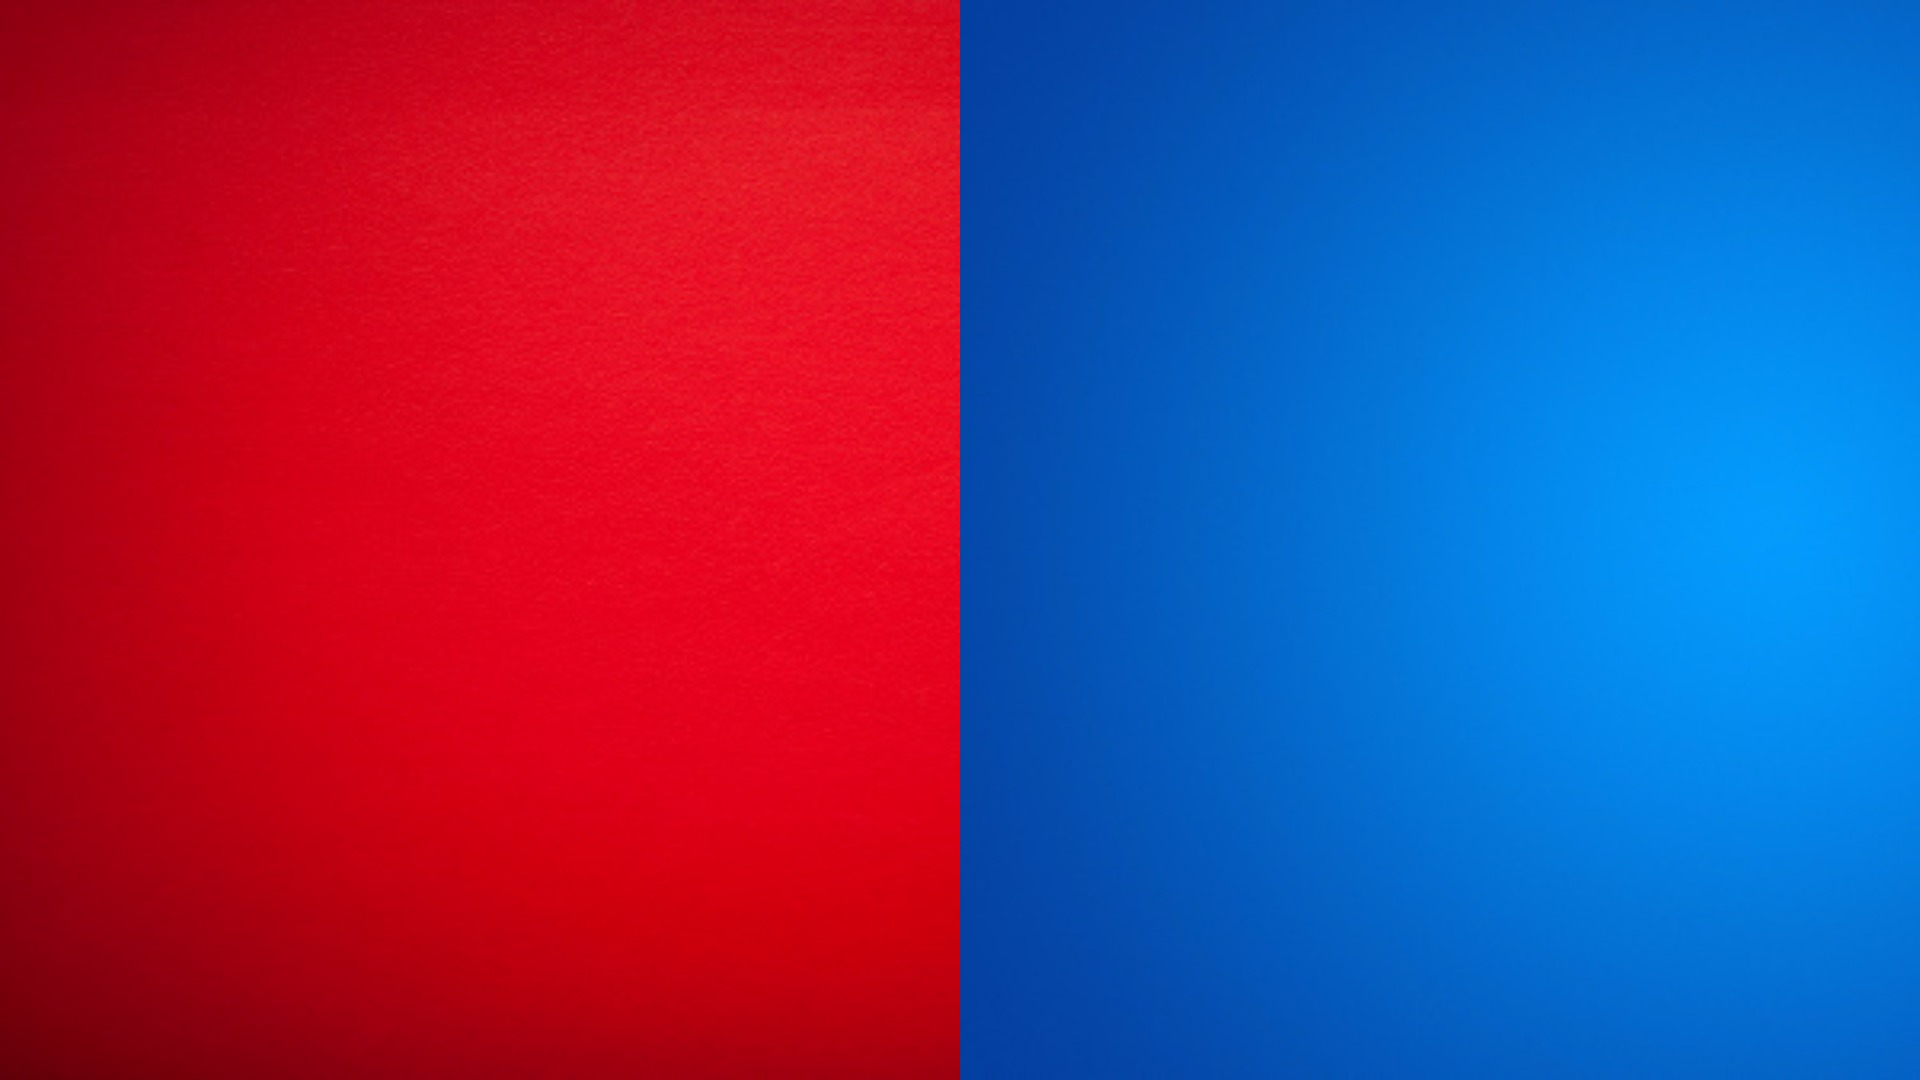
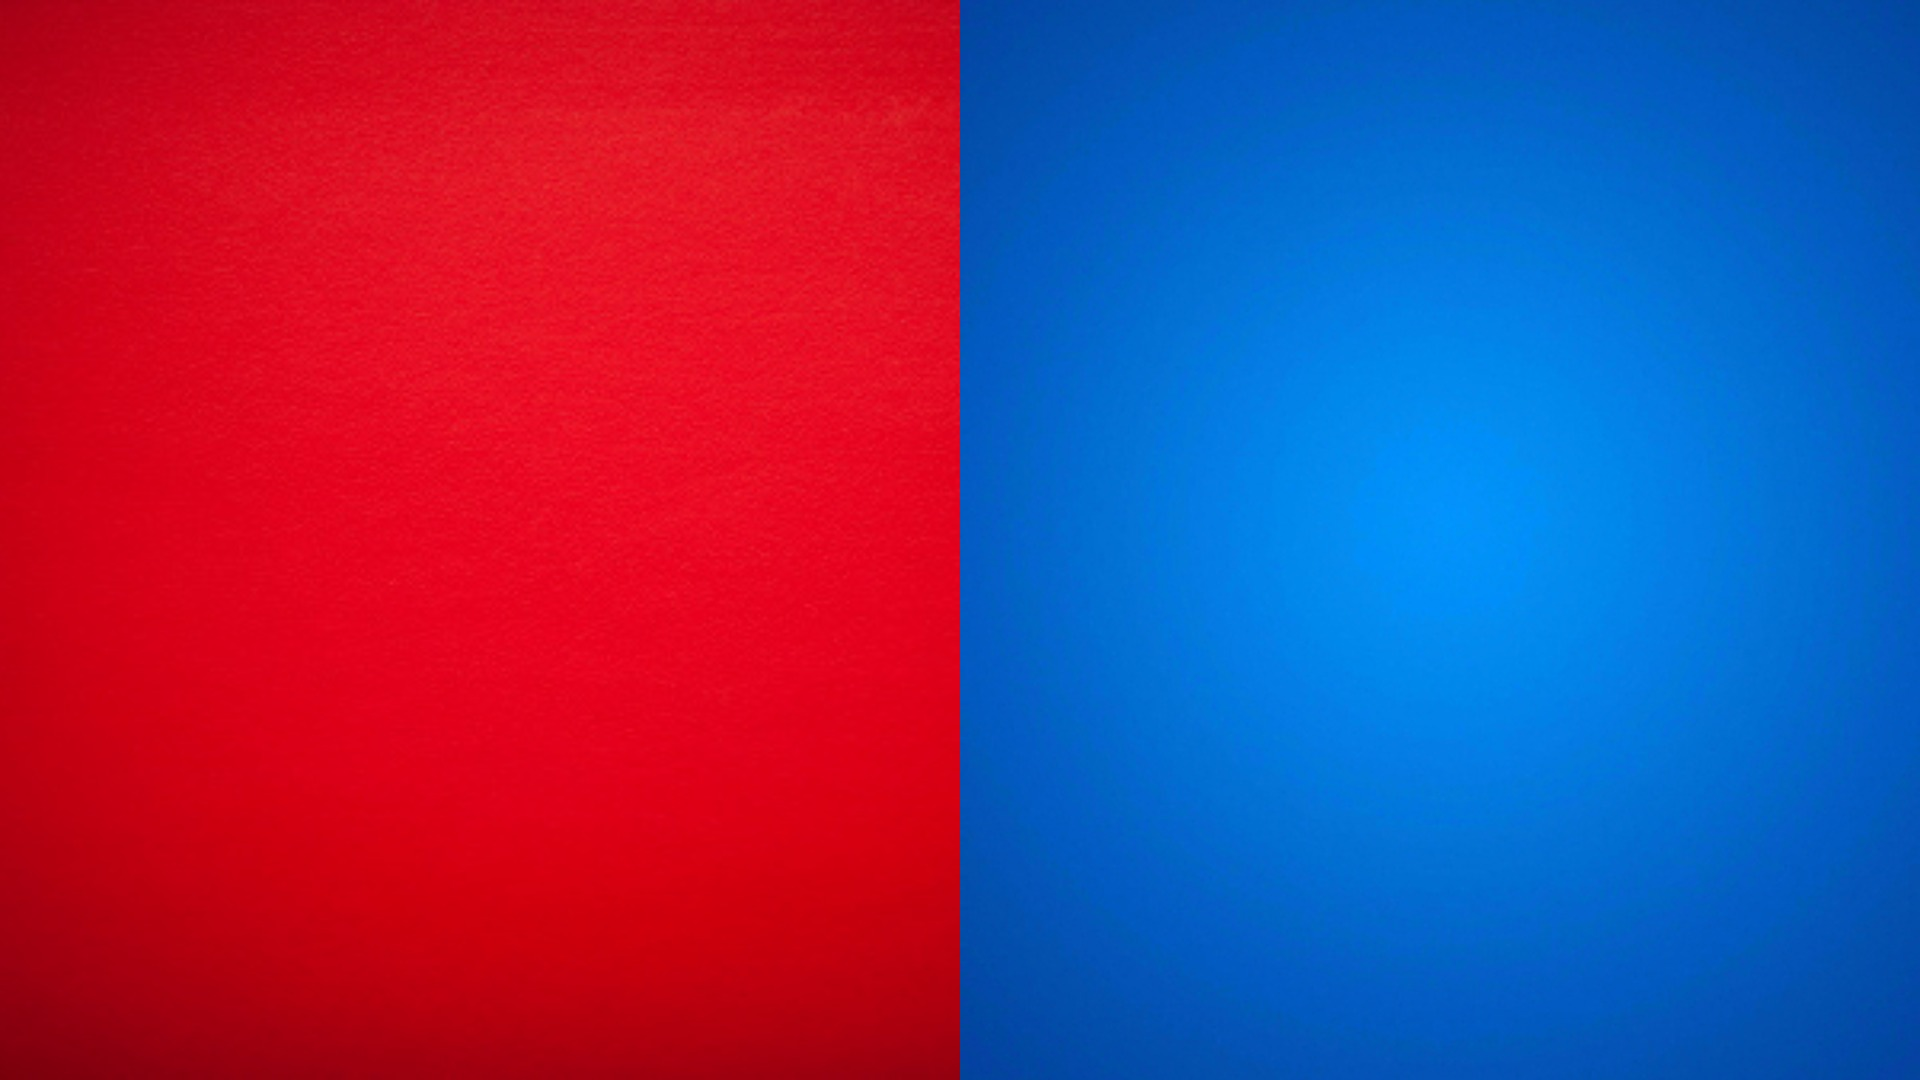
Fresh Start.

Changed region(s): [[0.0, 0.0, 0.1562, 1.0], [0.8438, 0.0, 1.0, 1.0], [0.5, 0.2444, 0.7812, 0.7333]]

diff --git a/Karate Scoring App/Form1.Designer.cs b/Karate Scoring App/Form1.Designer.cs
@@ -47,12 +47,8 @@
             this.sweepBlue_Button = new System.Windows.Forms.Button();
             this.punchBlue_Button = new System.Windows.Forms.Button();
             this.lka_PictureBox = new System.Windows.Forms.PictureBox();
-            this.blueBack_PictureBox = new System.Windows.Forms.PictureBox();
-            this.redBack_PictureBox = new System.Windows.Forms.PictureBox();
             this.blueScore_Label = new System.Windows.Forms.Label();
             ((System.ComponentModel.ISupportInitialize)(this.lka_PictureBox)).BeginInit();
-            ((System.ComponentModel.ISupportInitialize)(this.blueBack_PictureBox)).BeginInit();
-            ((System.ComponentModel.ISupportInitialize)(this.redBack_PictureBox)).BeginInit();
             this.SuspendLayout();
             // 
             // startTimer_Button
@@ -233,22 +229,6 @@
             this.lka_PictureBox.TabIndex = 16;
             this.lka_PictureBox.TabStop = false;
             // 
-            // blueBack_PictureBox
-            // 
-            this.blueBack_PictureBox.Location = new System.Drawing.Point(602, -1);
-            this.blueBack_PictureBox.Name = "blueBack_PictureBox";
-            this.blueBack_PictureBox.Size = new System.Drawing.Size(638, 721);
-            this.blueBack_PictureBox.TabIndex = 17;
-            this.blueBack_PictureBox.TabStop = false;
-            // 
-            // redBack_PictureBox
-            // 
-            this.redBack_PictureBox.Location = new System.Drawing.Point(0, -1);
-            this.redBack_PictureBox.Name = "redBack_PictureBox";
-            this.redBack_PictureBox.Size = new System.Drawing.Size(604, 721);
-            this.redBack_PictureBox.TabIndex = 18;
-            this.redBack_PictureBox.TabStop = false;
-            // 
             // blueScore_Label
             // 
             this.blueScore_Label.Anchor = ((System.Windows.Forms.AnchorStyles)((((System.Windows.Forms.AnchorStyles.Top | System.Windows.Forms.AnchorStyles.Bottom) 
@@ -256,7 +236,7 @@
             | System.Windows.Forms.AnchorStyles.Right)));
             this.blueScore_Label.AutoSize = true;
             this.blueScore_Label.Font = new System.Drawing.Font("Microsoft Sans Serif", 72F, System.Drawing.FontStyle.Regular, System.Drawing.GraphicsUnit.Point, ((byte)(0)));
-            this.blueScore_Label.Location = new System.Drawing.Point(630, 329);
+            this.blueScore_Label.Location = new System.Drawing.Point(842, 329);
             this.blueScore_Label.Name = "blueScore_Label";
             this.blueScore_Label.Size = new System.Drawing.Size(98, 108);
             this.blueScore_Label.TabIndex = 19;
@@ -286,15 +266,11 @@
             this.Controls.Add(this.pauseTimer_Button);
             this.Controls.Add(this.minsLabel);
             this.Controls.Add(this.startTimer_Button);
-            this.Controls.Add(this.blueBack_PictureBox);
-            this.Controls.Add(this.redBack_PictureBox);
             this.Name = "Form1";
             this.StartPosition = System.Windows.Forms.FormStartPosition.CenterScreen;
             this.Text = "Form1";
             this.Load += new System.EventHandler(this.Form1_Load);
             ((System.ComponentModel.ISupportInitialize)(this.lka_PictureBox)).EndInit();
-            ((System.ComponentModel.ISupportInitialize)(this.blueBack_PictureBox)).EndInit();
-            ((System.ComponentModel.ISupportInitialize)(this.redBack_PictureBox)).EndInit();
             this.ResumeLayout(false);
             this.PerformLayout();
 
@@ -319,8 +295,6 @@
         private System.Windows.Forms.Button sweepBlue_Button;
         private System.Windows.Forms.Button punchBlue_Button;
         private System.Windows.Forms.PictureBox lka_PictureBox;
-        private System.Windows.Forms.PictureBox blueBack_PictureBox;
-        private System.Windows.Forms.PictureBox redBack_PictureBox;
         private System.Windows.Forms.Label blueScore_Label;
     }
 }

diff --git a/Karate Scoring App/Form1.cs b/Karate Scoring App/Form1.cs
@@ -33,31 +33,13 @@ namespace Karate_Scoring_App
             //FormBorderStyle = FormBorderStyle.None;                                                   //Do not apply any border to this program
             //WindowState     = FormWindowState.Maximized;                                              //Start this program maximised
 
-            this.BackColor = Color.White;                                                               //Sets the Form background color to white
+            object LKA                  = Properties.Resources.ResourceManager.GetObject("LKA");       //Creates the object LKA, for the LKA image
+            lka_PictureBox.Image        = (Image)LKA;
+            lka_PictureBox.SizeMode     = PictureBoxSizeMode.StretchImage;
 
-            object LKA                   = Properties.Resources.ResourceManager.GetObject("LKA");       //Creates the object LKA, for the LKA image
-            object blueBackground        = Properties.Resources.ResourceManager.GetObject("blueBack");  //Creates the object blueBackground, for the blueBackground image
-            object redBackground         = Properties.Resources.ResourceManager.GetObject("redBack");   //Creates the object redBackground, for the redBackground image
-
-            lka_PictureBox.Image         = (Image)LKA;                                                  //Sets the LKA Picture Box image = LKA image
-            //blueBack_PictureBox.Image    = (Image)blueBackground;                                       //Sets the blueBackground Picture Box image = blueBackground image
-            //redBack_PictureBox.Image     = (Image)redBackground;                                        //Sets the redBackground Picture Box image = redBackground image
-
-            BackgroundImage = (Image)BackgroundImage;
-
-            lka_PictureBox.SizeMode      = PictureBoxSizeMode.StretchImage;                             //Stretches the image to the size of the PictureBox
-            blueBack_PictureBox.SizeMode = PictureBoxSizeMode.StretchImage;                             //Stretches the image to the size of the PictureBox
-            redBack_PictureBox.SizeMode  = PictureBoxSizeMode.StretchImage;                             //Stretches the image to the size of the PictureBox
-
-            blueScore_Label.Parent       = blueBack_PictureBox;                                         //Sets the blueBack_PictureBox as the parent of the blueBack_Label
-            blueScore_Label.BackColor    = Color.Transparent;                                           //Sets the background of the label to transparent
-            //blueScore_Label.Left = 300;
-
-            redScore_Label.Parent        = redBack_PictureBox;                                          //Sets the redBack_PictureBox as the parent of the redBack_Label
-            redScore_Label.BackColor     = Color.Transparent;                                           //Sets the background of the label to transparent
-                                                                                                        // redScore_Label.Left = 250;
-
-            //blueBack_PictureBox.Image.Width = 
+            object backgroundImage      = Properties.Resources.ResourceManager.GetObject("backgroundImage");
+            this.BackgroundImage        = (Image)backgroundImage;
+            this.BackgroundImageLayout  = ImageLayout.Stretch;
 
             inputTime_Textbox.Select();                                                                 //Puts focus on the textbox to enable typing immediately
         }

diff --git a/Karate Scoring App/Properties/Resources.Designer.cs b/Karate Scoring App/Properties/Resources.Designer.cs
@@ -73,29 +73,9 @@ namespace Karate_Scoring_App.Properties {
         /// <summary>
         ///   Looks up a localized resource of type System.Drawing.Bitmap.
         /// </summary>
-        internal static System.Drawing.Bitmap blueBack {
-            get {
-                object obj = ResourceManager.GetObject("blueBack", resourceCulture);
-                return ((System.Drawing.Bitmap)(obj));
-            }
-        }
-        
-        /// <summary>
-        ///   Looks up a localized resource of type System.Drawing.Bitmap.
-        /// </summary>
         internal static System.Drawing.Bitmap LKA {
             get {
                 object obj = ResourceManager.GetObject("LKA", resourceCulture);
-                return ((System.Drawing.Bitmap)(obj));
-            }
-        }
-        
-        /// <summary>
-        ///   Looks up a localized resource of type System.Drawing.Bitmap.
-        /// </summary>
-        internal static System.Drawing.Bitmap redBack {
-            get {
-                object obj = ResourceManager.GetObject("redBack", resourceCulture);
                 return ((System.Drawing.Bitmap)(obj));
             }
         }
